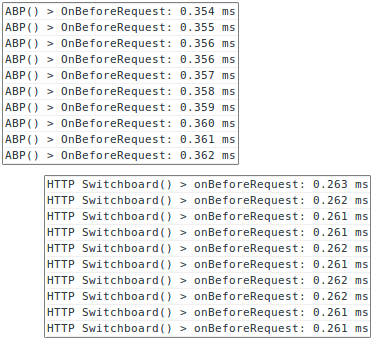
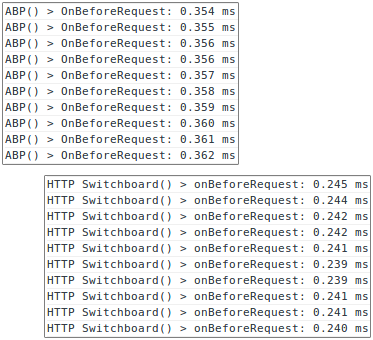
it was totally not worth to look farther than 1 char ahead

diff --git a/js/abp-filters.js b/js/abp-filters.js
@@ -702,7 +702,6 @@ var FilterContainer = function() {
     // Used during URL matching
     this.categoryBuckets = new Array(8);
     this.reAnyToken = /[%0-9a-z]+/g;
-    this.reMatches = null;
 };
 
 /******************************************************************************/
@@ -834,7 +833,7 @@ FilterContainer.prototype.addFilter = function(parsed) {
 FilterContainer.prototype.addFilterEntry = function(filter, parsed, party, tokenBeg, tokenEnd) {
     var s = parsed.f;
     var prefixKey = trimChar(s.substring(tokenBeg - 1, tokenBeg), '*');
-    var suffixKey = trimChar(s.substring(tokenEnd, tokenEnd + 2), '*');
+    var suffixKey = trimChar(s.substring(tokenEnd, tokenEnd + 1), '*');
     var tokenKey = prefixKey + s.slice(tokenBeg, tokenEnd) + suffixKey;
     if ( parsed.types.length === 0 ) {
         this.addToCategory(parsed.action | AnyType | party, tokenKey, filter);
@@ -888,69 +887,45 @@ FilterContainer.prototype.freeze = function() {
 
 /******************************************************************************/
 
-FilterContainer.prototype.matchToken = function(categoryBucket) {
-    var url = this.url;
-    var beg = this.reMatches.index;
-    var end = this.reAnyToken.lastIndex;
-    var right = url.length - end;
-    var f;
-    
-    if ( right > 1 ) {
-        if ( beg !== 0 ) {
-            f = categoryBucket[url.slice(beg-1, end+2)];
-            if ( f !== undefined && f.match(url, beg) !== false ) {
-                return f.s;
-            }
-        }
-        f = categoryBucket[url.slice(beg, end+2)];
-        if ( f !== undefined && f.match(url, beg) !== false ) {
-            return f.s;
-        }
-    }
-    if ( right > 0 ) {
-        if ( beg !== 0 ) {
-            f = categoryBucket[url.slice(beg-1, end+1)];
-            if ( f !== undefined && f.match(url, beg) !== false ) {
-                return f.s;
-            }
-        }
-        f = categoryBucket[url.slice(beg, end+1)];
-        if ( f !== undefined && f.match(url, beg) !== false ) {
-            return f.s;
-        }
-    }
-    if ( beg !== 0 ) {
-        f = categoryBucket[url.slice(beg-1, end)];
-        if ( f !== undefined && f.match(url, beg) !== false ) {
-            return f.s;
-        }
-    }
-    f = categoryBucket[url.slice(beg, end)];
-    if ( f !== undefined && f.match(url, beg) !== false ) {
-        return f.s;
-    }
-    return false;
-};
-
-/******************************************************************************/
-
 FilterContainer.prototype.matchTokens = function() {
     var buckets = this.categoryBuckets;
     var url = this.url;
+    var urlLen = url.length;
     var re = this.reAnyToken;
-    var i, bucket, f;
+    var beg, end, i, bucket, f;
+    var matches;
 
     re.lastIndex = 0;
-    while ( this.reMatches = re.exec(url) ) {
+    while ( matches = re.exec(url) ) {
+        beg = matches.index;
+        end = re.lastIndex;
         i = 8;
         while ( i-- ) {
             bucket = buckets[i];
             if ( bucket === undefined ) {
                 continue;
             }
-            f = this.matchToken(bucket);
-            if ( f !== false ) {
-                return f;
+            if ( end !== urlLen ) {
+                if ( beg !== 0 ) {
+                    f = bucket[url.slice(beg-1, end+1)];
+                    if ( f !== undefined && f.match(url, beg) !== false ) {
+                        return f.s;
+                    }
+                }
+                f = bucket[url.slice(beg, end+1)];
+                if ( f !== undefined && f.match(url, beg) !== false ) {
+                    return f.s;
+                }
+            }
+            if ( beg !== 0 ) {
+                f = bucket[url.slice(beg-1, end)];
+                if ( f !== undefined && f.match(url, beg) !== false ) {
+                    return f.s;
+                }
+            }
+            f = bucket[url.slice(beg, end)];
+            if ( f !== undefined && f.match(url, beg) !== false ) {
+                return f.s;
             }
         }
     }
